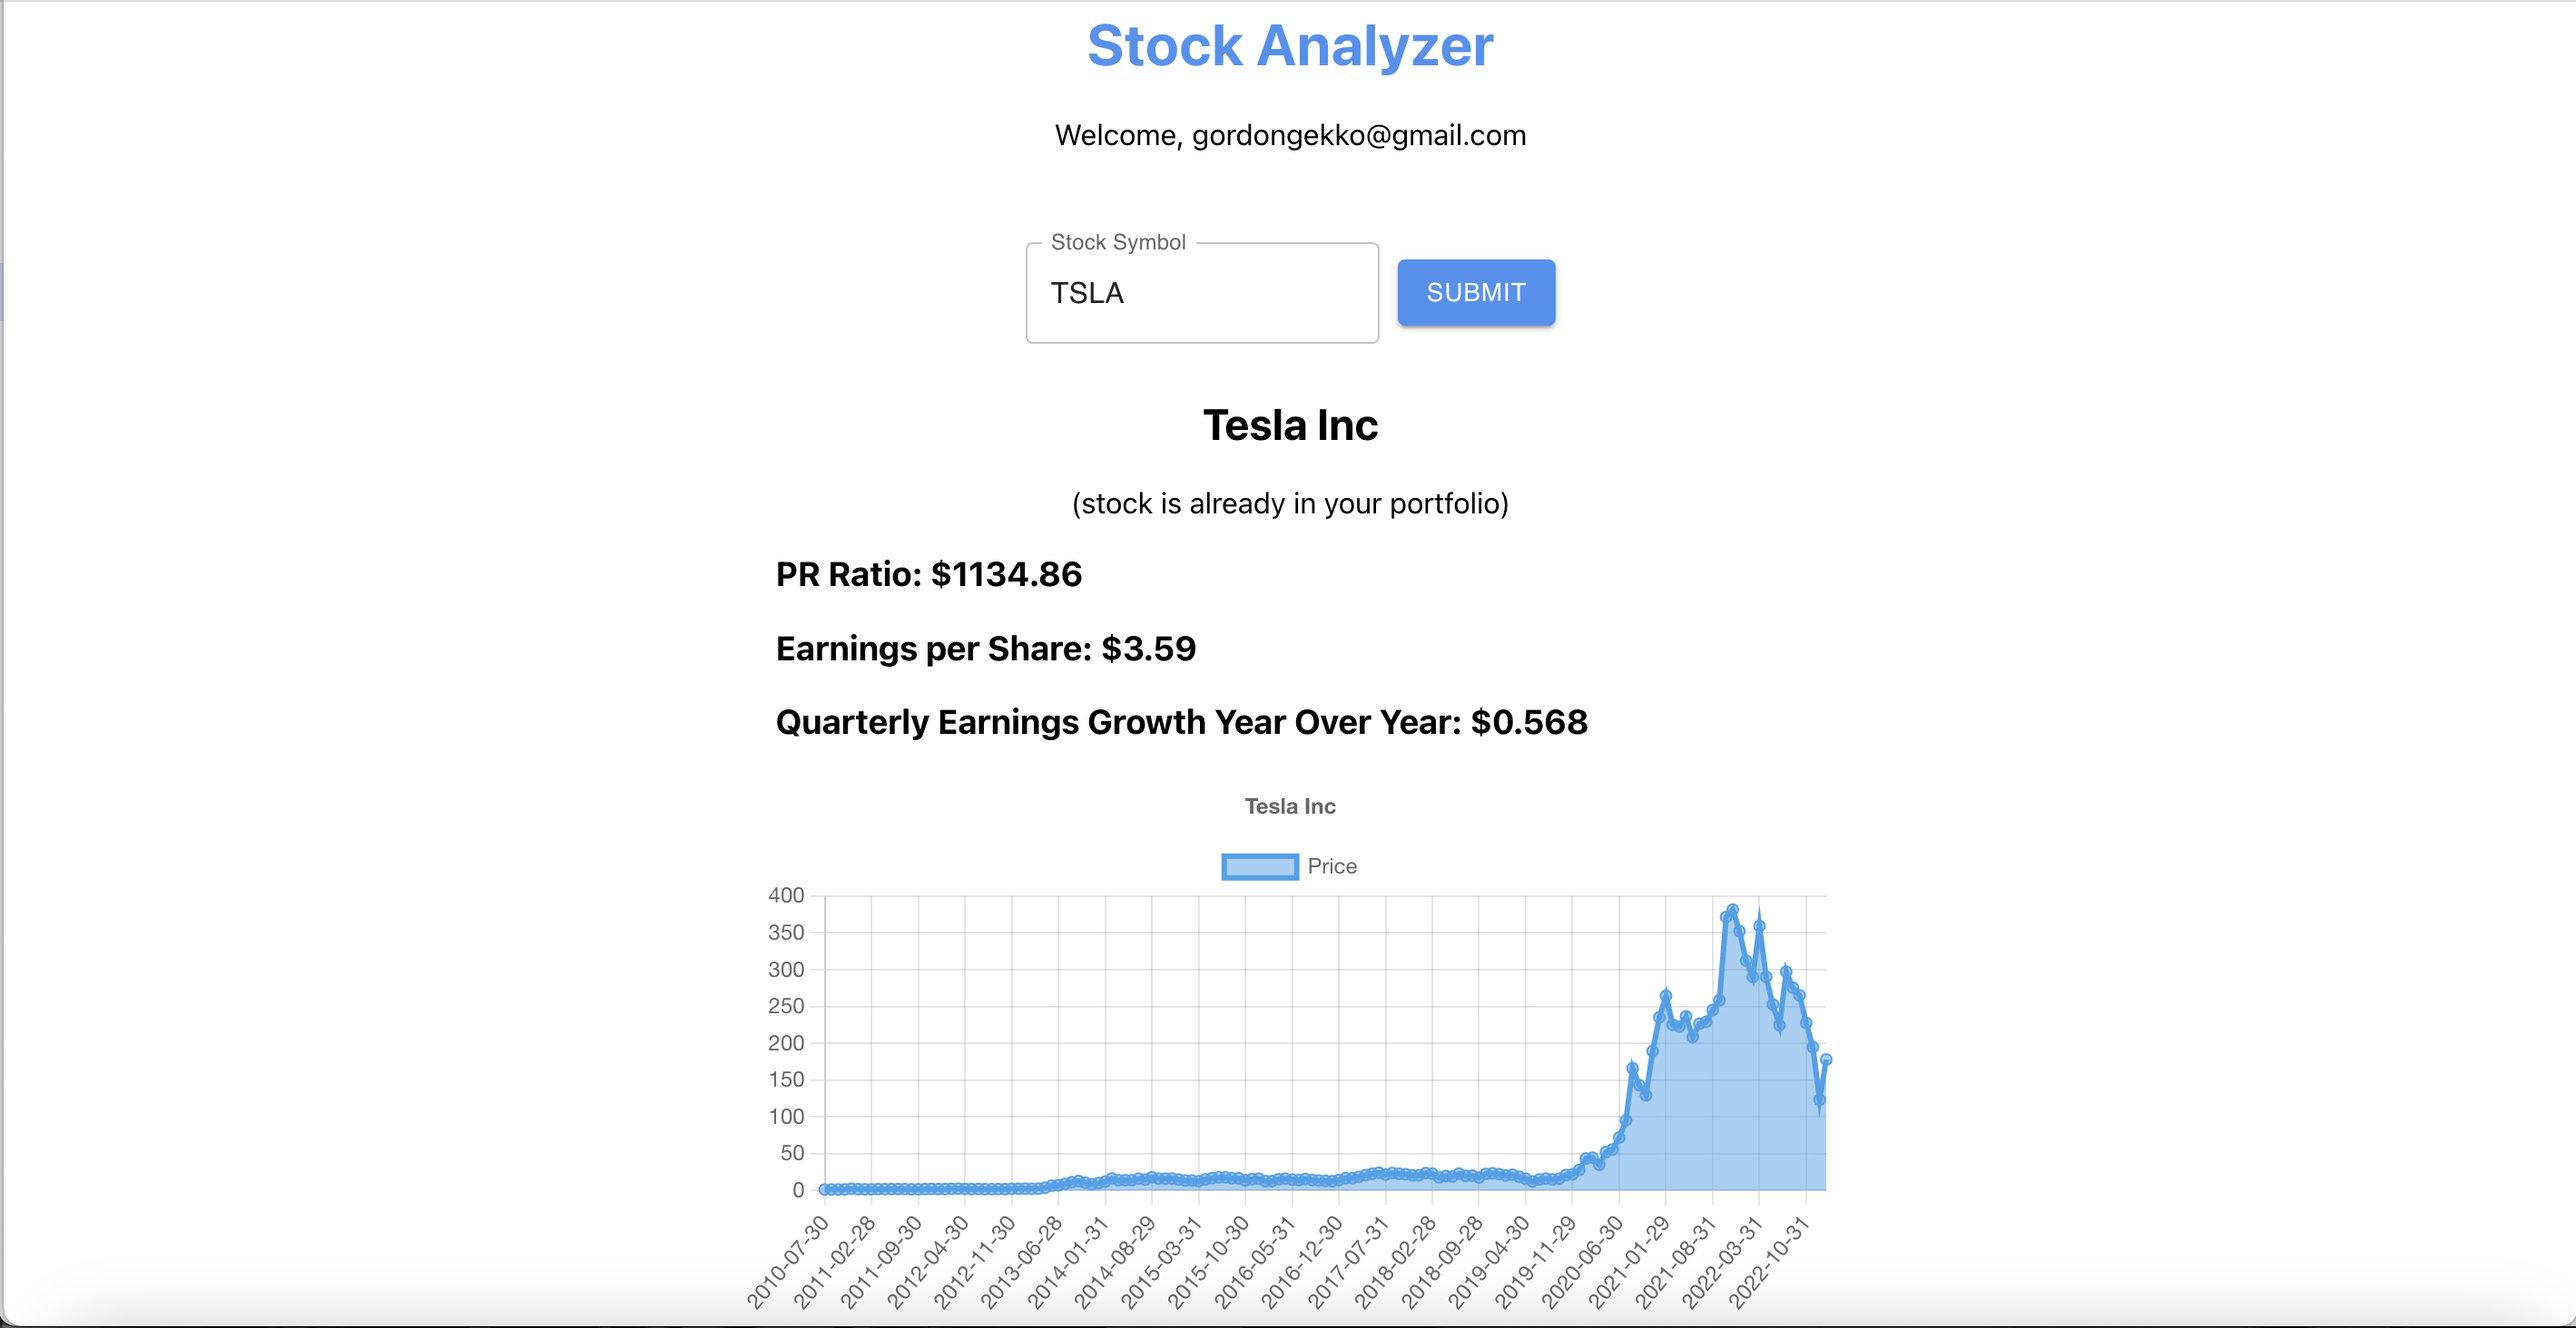
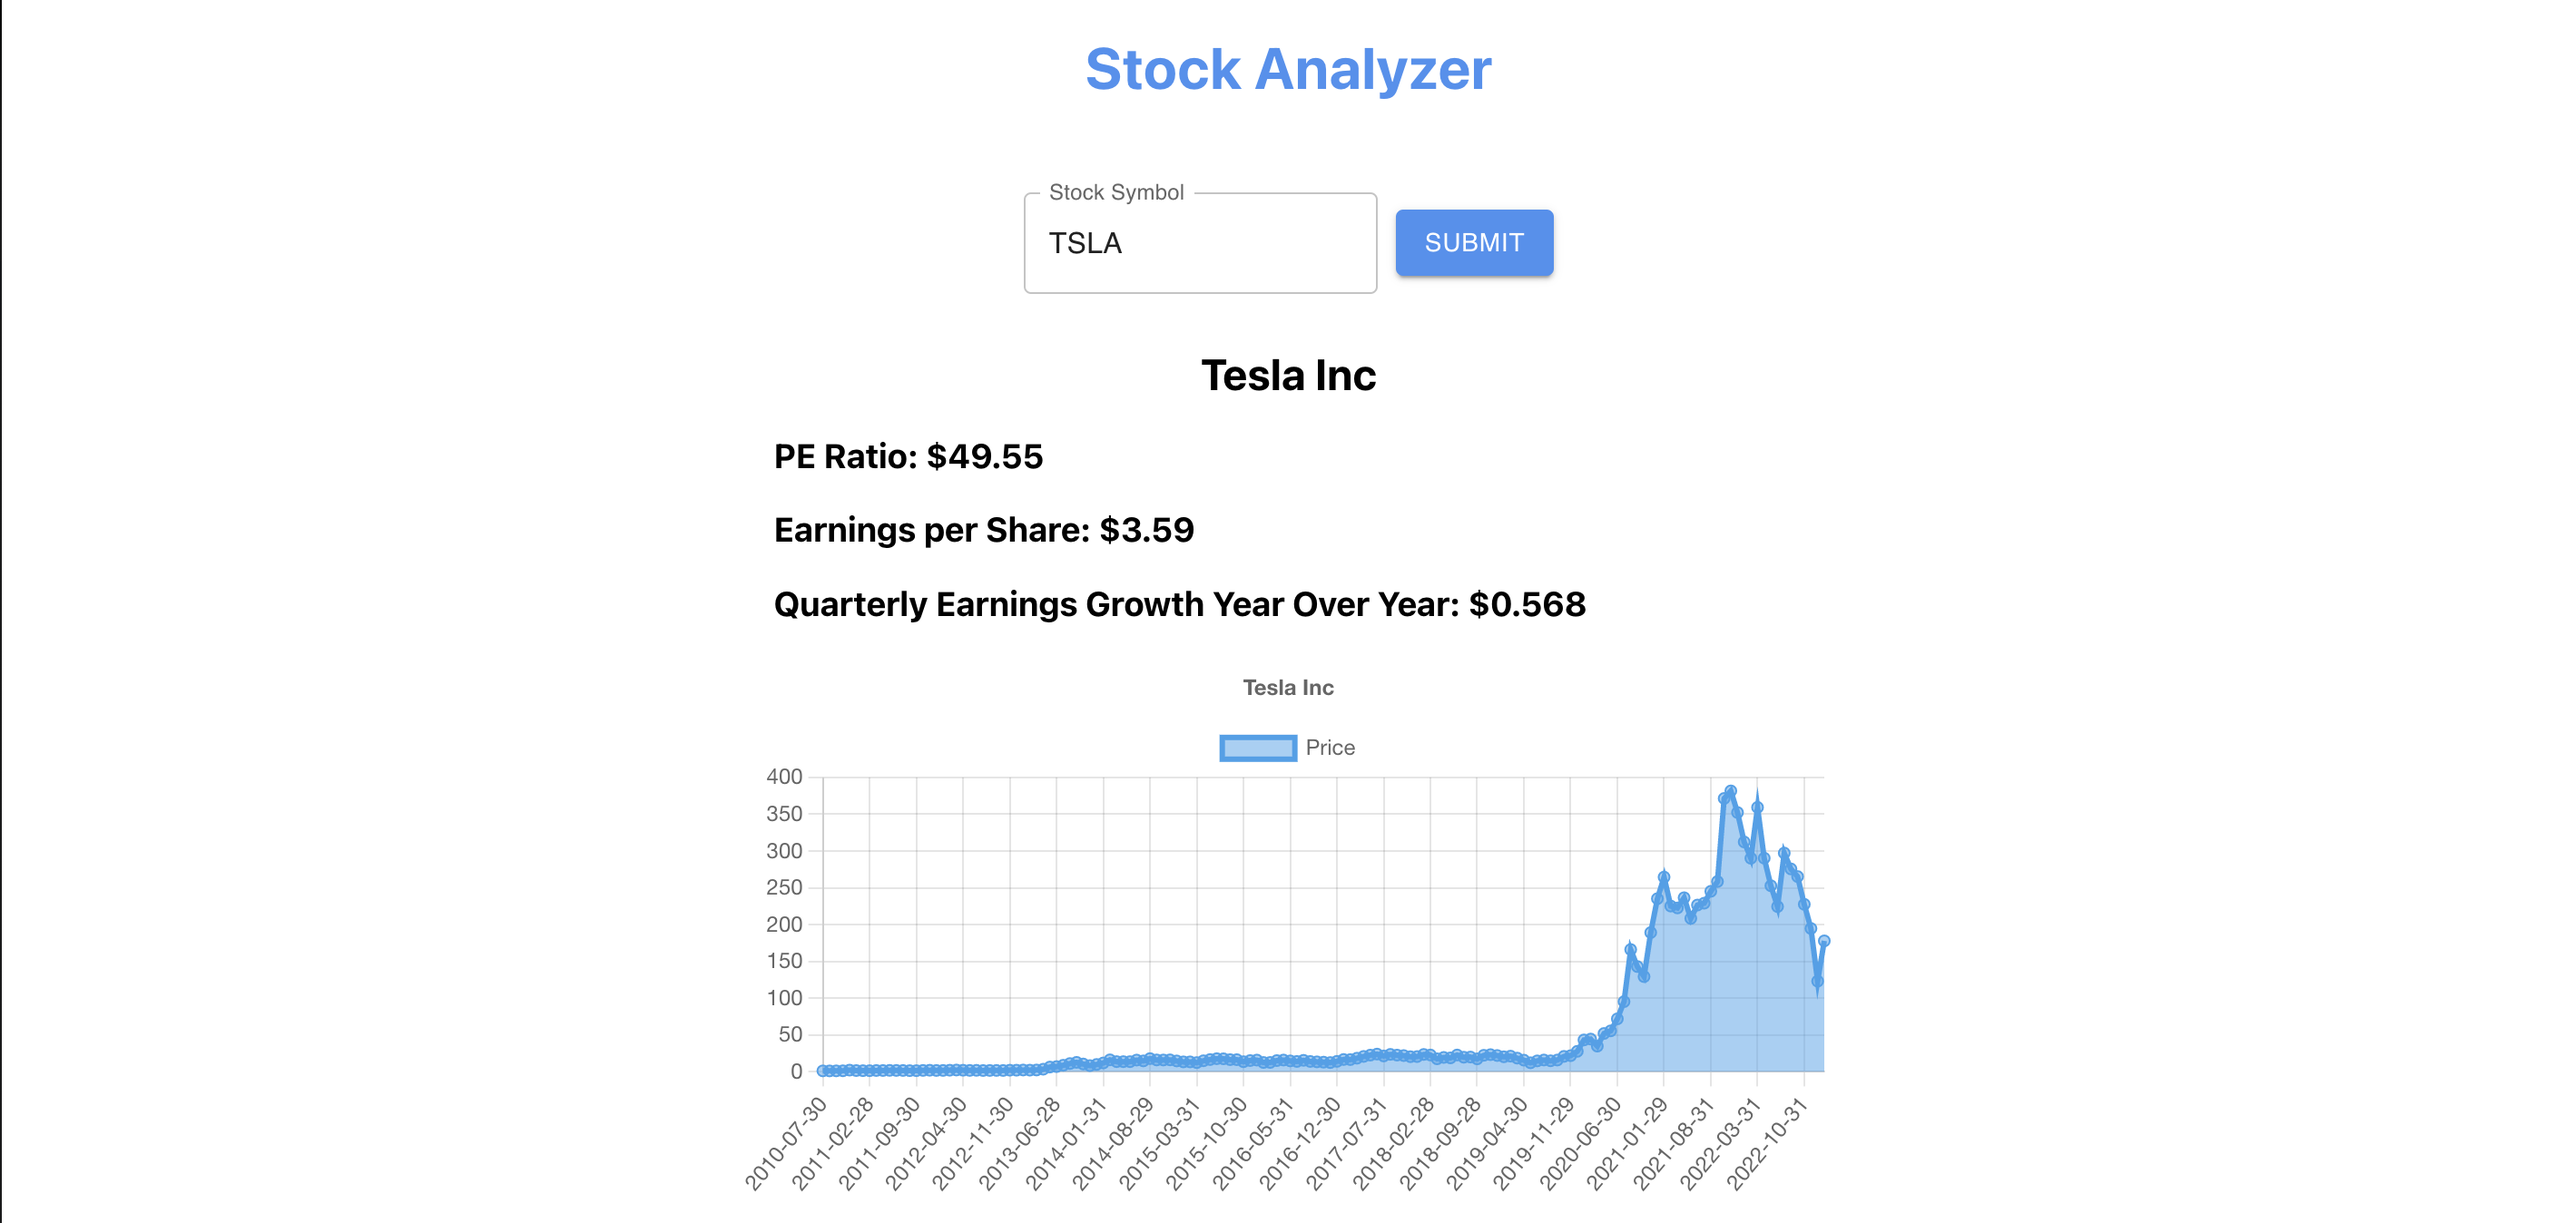
fixed typo

diff --git a/src/components/Home/Home.tsx b/src/components/Home/Home.tsx
@@ -140,7 +140,7 @@ export default function Home(props: {hideLine?: boolean}) {
             <AddToPortfolioButton stockSymbol={stockSymbol} />
             <StockNotFound stockErrorMessage={stockErrorMessage} />
             <StockInfoContainer>
-                <h3>PR Ratio: {peRatio ? `$${peRatio}` : null}</h3>
+                <h3>PE Ratio: {peRatio ? `$${peRatio}` : null}</h3>
                 <h3>Earnings per Share: {eps ? `$${eps}` : null}</h3>
                 <h3>Quarterly Earnings Growth Year Over Year: {quarterlyEarningsGrowthYOY ? `$${quarterlyEarningsGrowthYOY}` : null}</h3>
             </StockInfoContainer>

diff --git a/src/components/Stock/Stock.tsx b/src/components/Stock/Stock.tsx
@@ -126,7 +126,7 @@ export default function Stock() {
             <h2>{stockName}</h2>
             <RemoveFromPortfolioPrompt stockSymbol={stockSymbol} />
             <StockInfoContainer>
-                <h3>PR Ratio: {peRatio ? `$${peRatio}` : null}</h3>
+                <h3>PE Ratio: {peRatio ? `$${peRatio}` : null}</h3>
                 <h3>Earnings per Share: {eps ? `$${eps}` : null}</h3>
                 <h3>Quarterly Earnings Growth Year Over Year: {quarterlyEarningsGrowthYOY ? `$${quarterlyEarningsGrowthYOY}` : null}</h3>
             </StockInfoContainer>
